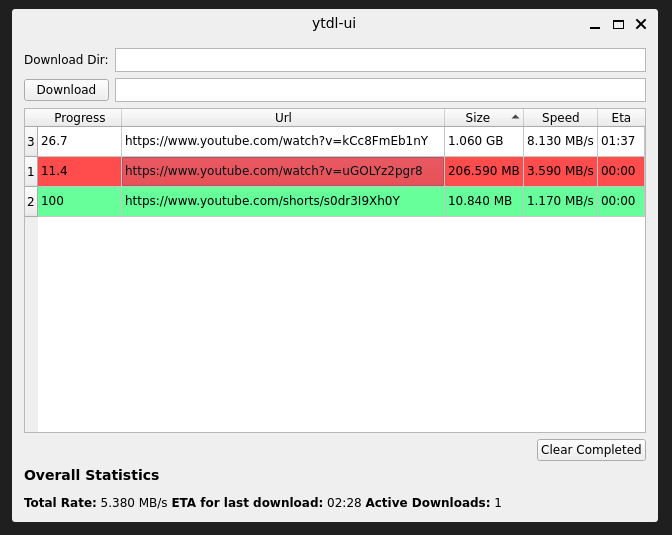
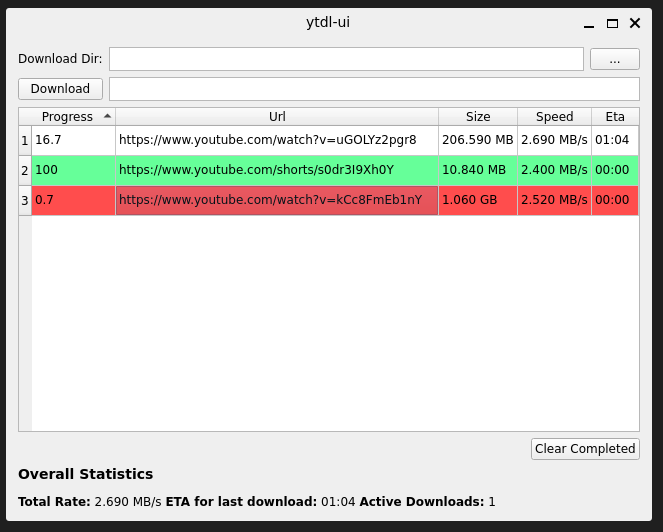
Add a folder chooser for download directory

Changed region(s): [[0.0, 0.0, 0.9955, 0.9925], [0.4525, 0.0301, 0.543, 0.0602]]

diff --git a/ytdl-ui/main.py b/ytdl-ui/main.py
@@ -23,7 +23,8 @@ from PyQt6.QtWidgets import (
     QTableView,
     QHeaderView,
     QMenu,
-    QSizePolicy
+    QSizePolicy,
+    QFileDialog
 )
 
 from ytdlp_process import YtDlpProcess, YtDlpInfo, YtDlpListener
@@ -233,7 +234,6 @@ class MainWindow(QMainWindow):
     def __init__(self):
         super().__init__()
         self.setWindowTitle("ytdl-ui")
-        self.grid_layout = QGridLayout()
 
         # downloads table
         self.table = QTableView(sizePolicy=EXPAND_ALL_POLICY)
@@ -261,6 +261,11 @@ class MainWindow(QMainWindow):
         # download directory textbox
         self.download_dir_textbox = get_one_line_textbox()
 
+        # choose directory button
+        self.choose_dir_btn = QPushButton(text="...")
+        self.choose_dir_btn.clicked.connect(self.choose_download_dir)
+        self.choose_dir_btn.setFixedWidth(50)
+
         # clear completed button
         self.clear_completed_btn = QPushButton(text="Clear Completed")
         self.clear_completed_btn.clicked.connect(self.table_model.clear_completed)
@@ -273,13 +278,15 @@ class MainWindow(QMainWindow):
         self.overall_stats_timer.start()
 
         # QGridLayout::addWidget(widget: QWidget, row: int, column: int, rowSpan: int, columnSpan: int, alignment: QtCore.Qt.AlignmentFlag)
+        self.grid_layout = QGridLayout()
         self.grid_layout.addWidget(self.download_dir_label, 0, 0)
         self.grid_layout.addWidget(self.download_dir_textbox, 0, 1)
+        self.grid_layout.addWidget(self.choose_dir_btn, 0, 2)
         self.grid_layout.addWidget(self.download_btn, 1, 0)
-        self.grid_layout.addWidget(self.url_textbox, 1, 1)
-        self.grid_layout.addWidget(self.table, 2, 0, 1, 2)
-        self.grid_layout.addWidget(self.clear_completed_btn, 3, 0, 1, 2, alignment=Qt.AlignmentFlag.AlignRight)
-        self.grid_layout.addWidget(self.overall_stats_label, 4, 0, 1, 2, alignment=Qt.AlignmentFlag.AlignLeft)
+        self.grid_layout.addWidget(self.url_textbox, 1, 1, 1, 2)
+        self.grid_layout.addWidget(self.table, 2, 0, 1, 3)
+        self.grid_layout.addWidget(self.clear_completed_btn, 3, 0, 1, 3, alignment=Qt.AlignmentFlag.AlignRight)
+        self.grid_layout.addWidget(self.overall_stats_label, 4, 0, 1, 3, alignment=Qt.AlignmentFlag.AlignLeft)
 
         # create the top-level widget for the window frame
         widget = QWidget()
@@ -322,6 +329,11 @@ class MainWindow(QMainWindow):
         add_url = self.url_textbox.toPlainText()
         download_dir = self.download_dir_textbox.toPlainText()
         self.add_download(add_url, download_dir)
+
+    def choose_download_dir(self):
+        folder_path = QFileDialog.getExistingDirectory(self, "Select Folder")
+        if folder_path:
+            self.download_dir_textbox.setText(folder_path)
 
     def overall_stats_timer_callback(self):
         items = self.table_model.get_all_items()
